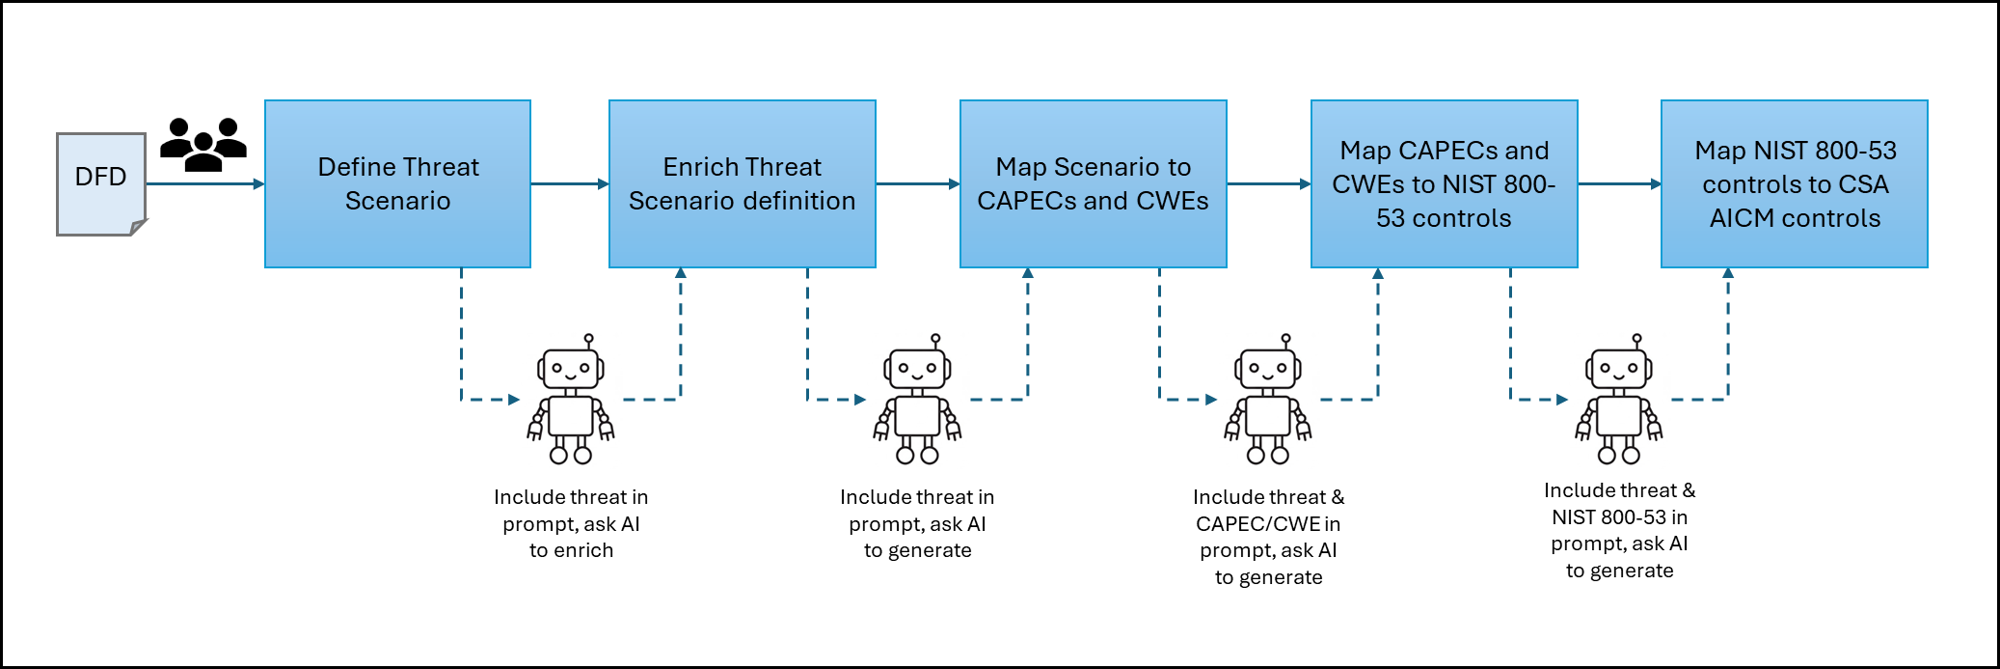
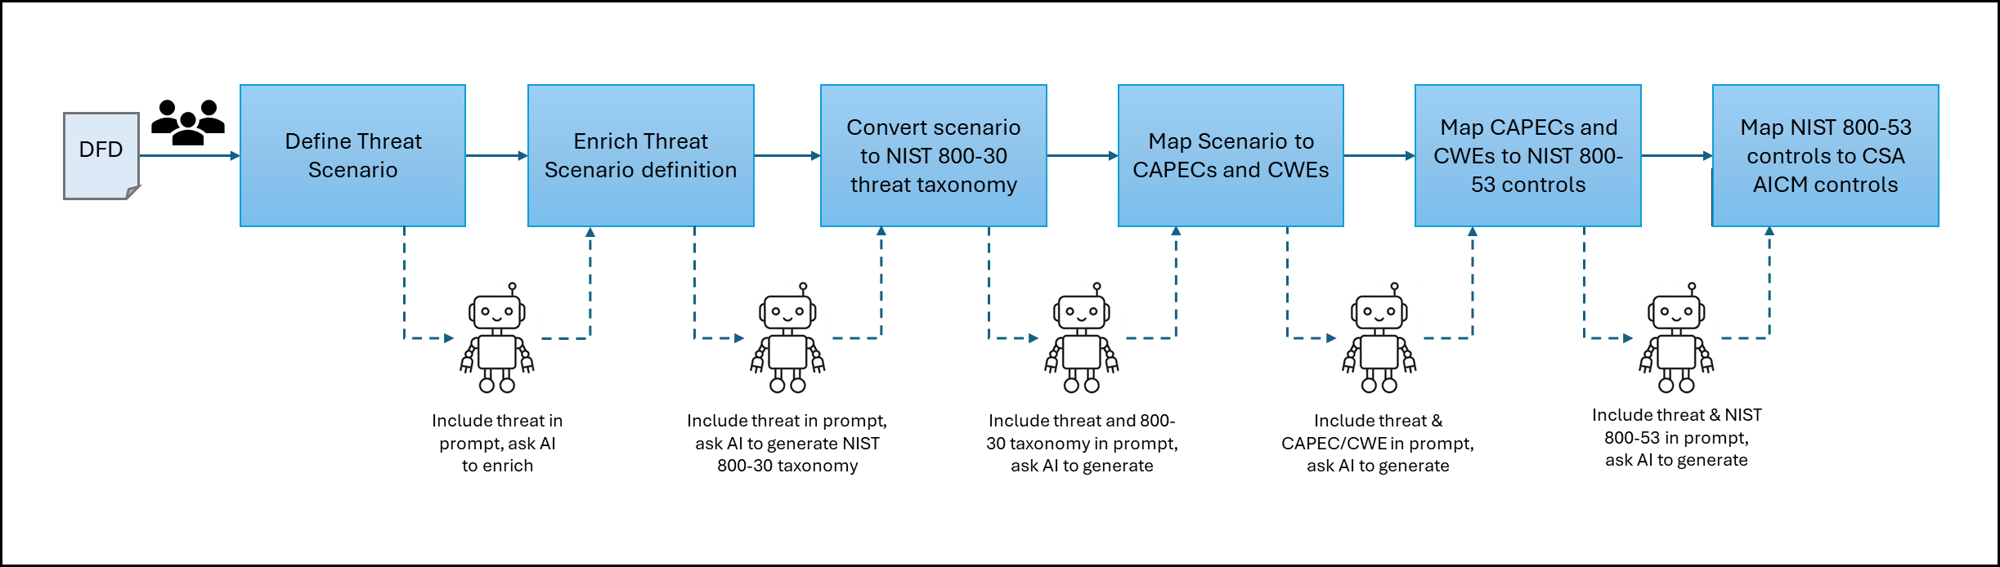
updates

diff --git a/subgroups/use-cases-and-threat-models/README.md b/subgroups/use-cases-and-threat-models/README.md
@@ -39,9 +39,12 @@ The Threat Model lives [here on google Docs](https://docs.google.com/spreadsheet
 We are currently creating an automated, AI driven process to utilise AI to:
 
  - Enrich threat scenario text to ensure high quality
+ - Convert scenario to [NIST 800-30 threat taxonomy](https://nvlpubs.nist.gov/nistpubs/Legacy/SP/nistspecialpublication800-30r1.pdf)
  - Map threat scenario to [Common Attack Pattern Enumerations and Classifications (CAPEC)](https://capec.mitre.org/)
  - Map the CAPEC to [NIST SP800-53 Security and Privacy Controls for Information Systems and Organizations](https://csrc.nist.gov/projects/risk-management/sp800-53-controls/downloads) controls
  - Map NIST SP800-53 controls to [Cloud Security Alliance AI Controls Matrix (CSA AICM)](https://cloudsecurityalliance.org/artifacts/ai-controls-matrix) controls (where the threat is AI specific/focused)
+
+**Note:** The way we define intent is either: Intent by proxy _or_ Direct intent. So a Vendor can be adversarial even if it is by proxy through an attacker if they are compromised
 
 ![Process Chart of Threat Modelling with AI](./images/threat_modelling_with_ai.png)
 
